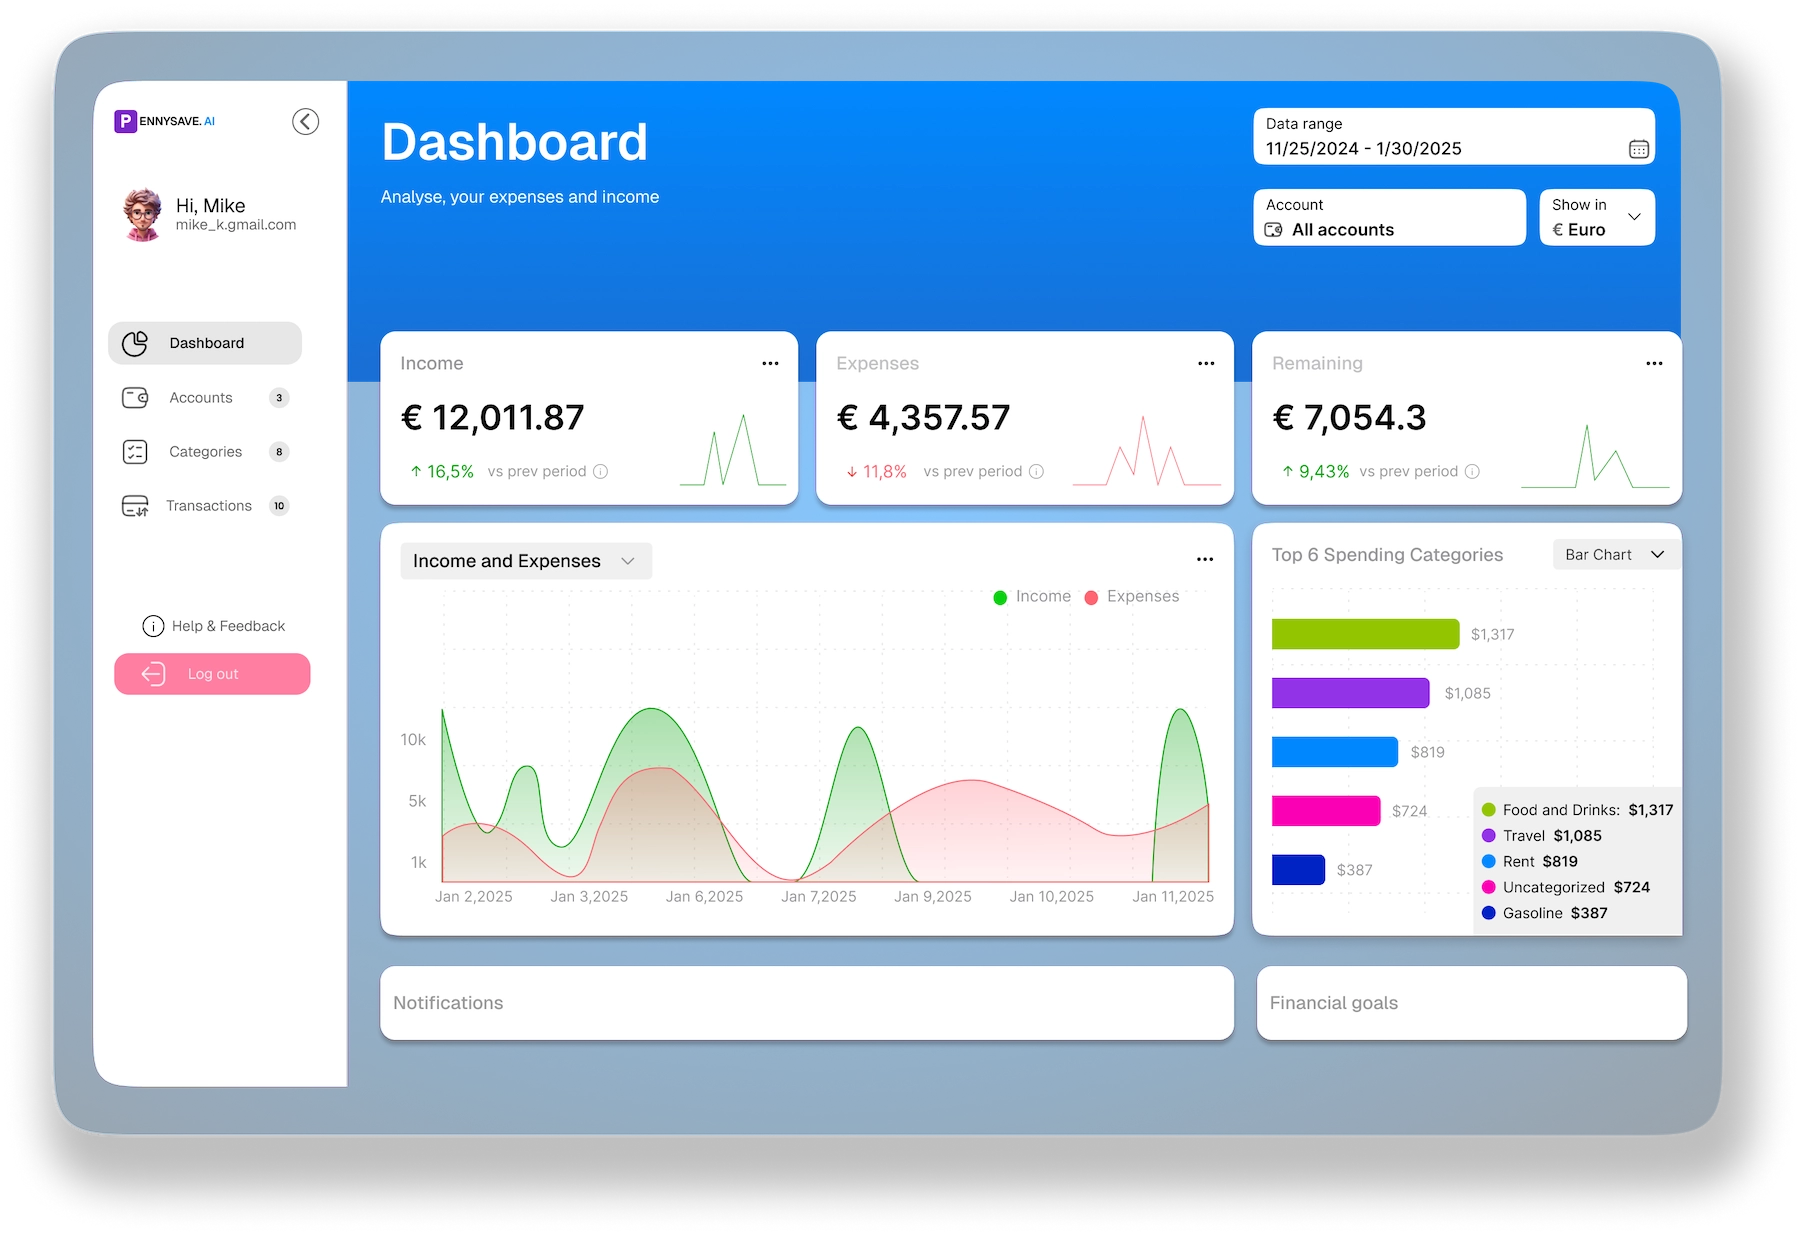
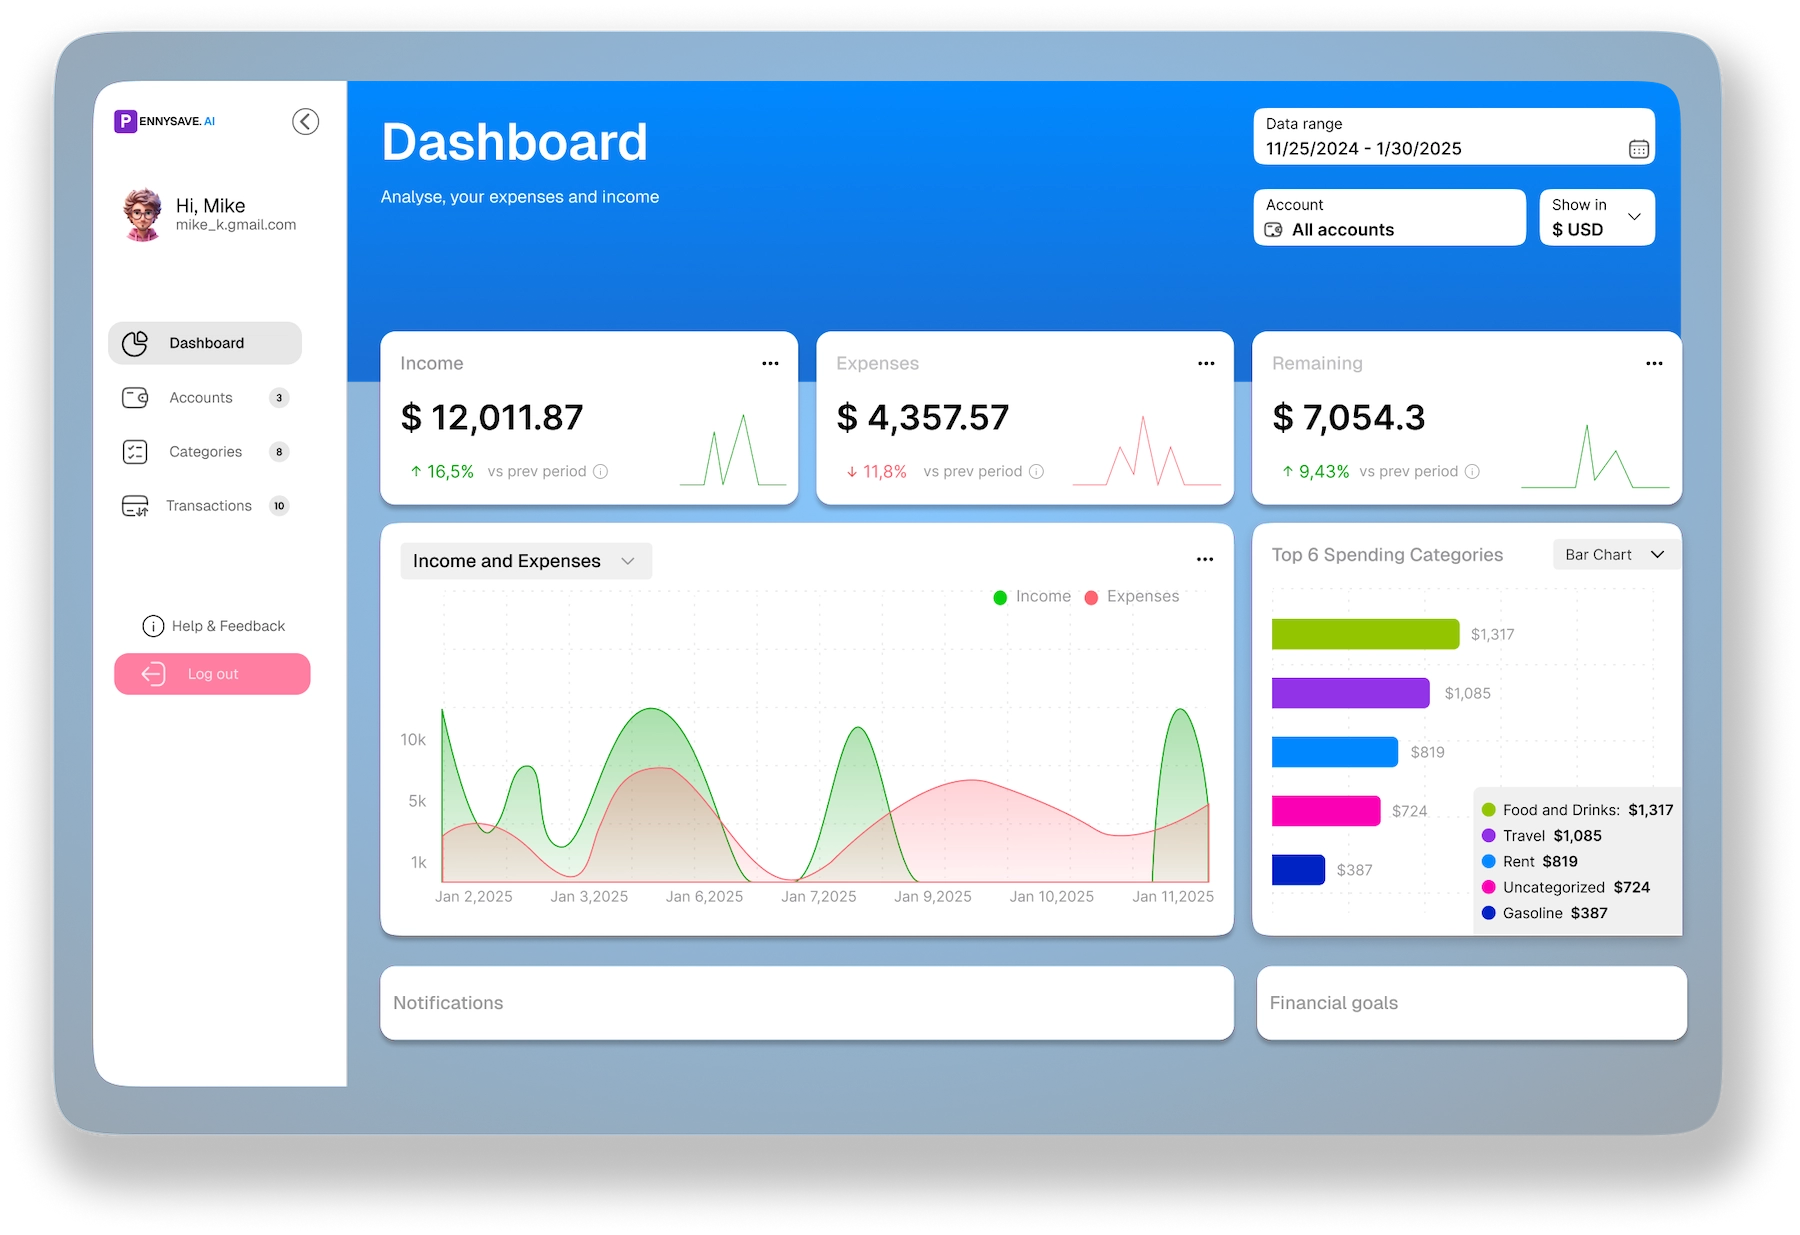
improvements

diff --git a/src/components/features.tsx b/src/components/features.tsx
@@ -201,33 +201,16 @@ export default function Features() {
             </div>
             <div className="p-3 flex flex-col gap-y-2 mb-24 md:mb-0">
               <div className="flex justify-between items-center gap-3">
-                <div className="flex items-center gap-x-3 overflow-hidden">
-                  <div
-                    className="bank-card"
-                    style={{
-                      background: "#0056b3",
-                    }}
-                  >
-                    C
-                  </div>
+                <div className="flex items-center gap-x-3 overflow-hidden w-full">
+                  <div className="bank-card bg-secondary-400">C</div>
                   <div className="flex flex-col overflow-hidden text-ellipsis">
                     <div className="truncate block">Chase</div>
-                    <div className="text-sm text-primary">chase.com</div>
+                    <div className="flex gap-x-2 text-xs text-default-400">
+                      <div className="trucate block">*6789</div>
+                    </div>
                   </div>
                 </div>
                 <div className="flex">
-                  <Button
-                    isIconOnly
-                    fullWidth
-                    isDisabled
-                    className="md:flex w-full"
-                    size="sm"
-                    aria-label="edit bank"
-                    color="primary"
-                    variant="light"
-                  >
-                    <Icon icon="solar:pen-2-bold" width={22} />
-                  </Button>
                   <Button
                     isIconOnly
                     fullWidth
@@ -243,33 +226,16 @@ export default function Features() {
                 </div>
               </div>
               <div className="flex justify-between items-center gap-3">
-                <div className="flex items-center gap-x-3 overflow-hidden">
-                  <div
-                    className="bank-card"
-                    style={{
-                      background: "#0075a3",
-                    }}
-                  >
-                    C
-                  </div>
+                <div className="flex items-center gap-x-3 overflow-hidden w-full">
+                  <div className="bank-card bg-secondary-400">C</div>
                   <div className="flex flex-col overflow-hidden text-ellipsis">
                     <div className="truncate block">Charles Schwab</div>
-                    <div className="text-sm text-primary">schwab.com</div>
+                    <div className="flex gap-x-2 text-xs text-default-400">
+                      <div className="trucate block">*4321</div>
+                    </div>
                   </div>
                 </div>
                 <div className="flex">
-                  <Button
-                    isIconOnly
-                    fullWidth
-                    isDisabled
-                    className="md:flex w-full"
-                    size="sm"
-                    aria-label="edit bank"
-                    color="primary"
-                    variant="light"
-                  >
-                    <Icon icon="solar:pen-2-bold" width={22} />
-                  </Button>
                   <Button
                     isIconOnly
                     fullWidth
@@ -285,33 +251,16 @@ export default function Features() {
                 </div>
               </div>
               <div className="flex justify-between items-center gap-3">
-                <div className="flex items-center gap-x-3 overflow-hidden">
-                  <div
-                    className="bank-card"
-                    style={{
-                      background: "#204081",
-                    }}
-                  >
-                    C
-                  </div>
+                <div className="flex items-center gap-x-3 overflow-hidden w-full">
+                  <div className="bank-card bg-secondary-400">C</div>
                   <div className="flex flex-col overflow-hidden text-ellipsis">
                     <div className="truncate block">Citibank Online</div>
-                    <div className="text-sm text-primary">citi.com</div>
+                    <div className="flex gap-x-2 text-xs text-default-400">
+                      <div className="trucate block">*6142</div>
+                    </div>
                   </div>
                 </div>
                 <div className="flex">
-                  <Button
-                    isIconOnly
-                    fullWidth
-                    isDisabled
-                    className="md:flex w-full"
-                    size="sm"
-                    aria-label="edit bank"
-                    color="primary"
-                    variant="light"
-                  >
-                    <Icon icon="solar:pen-2-bold" width={22} />
-                  </Button>
                   <Button
                     isIconOnly
                     fullWidth

diff --git a/src/app/(protected)/settings/subscription-section.tsx b/src/app/(protected)/settings/subscription-section.tsx
@@ -59,15 +59,15 @@ export default function SubscriptionSection() {
                     {user.subscription?.cancelAt
                       ? "will be canceled on"
                       : "renews on"}{" "}
-                    {user.subscription?.cancelAt ||
-                      (user.subscription?.expires &&
-                        format(
-                          new Date(
-                            user.subscription?.cancelAt ||
-                              user.subscription?.expires
-                          ),
-                          "PP"
-                        ))}
+                    {(user.subscription?.cancelAt ||
+                      user.subscription?.expires) &&
+                      format(
+                        new Date(
+                          user.subscription?.cancelAt ||
+                            user.subscription?.expires
+                        ),
+                        "PP"
+                      )}
                   </div>
                 </div>
               </div>

diff --git a/src/app/(protected)/settings/banks-section.tsx b/src/app/(protected)/settings/banks-section.tsx
@@ -118,7 +118,7 @@ export default function BanksSection({
                   </Chip>
                 </div>
                 <StripeLink
-                  className="w-auto hidden md:flex"
+                  className="z-0 group relative inline-flex items-center justify-center box-border appearance-none select-none whitespace-nowrap font-normal subpixel-antialiased overflow-hidden tap-highlight-transparent data-[pressed=true]:scale-[0.97] outline-none data-[focus-visible=true]:z-10 data-[focus-visible=true]:outline-2 data-[focus-visible=true]:outline-focus data-[focus-visible=true]:outline-offset-2 px-4 min-w-20 h-10 text-small gap-2 rounded-medium [&>svg]:max-w-[theme(spacing.8)] transition-transform-colors-opacity motion-reduce:transition-none bg-primary text-primary-foreground data-[hover=true]:opacity-hover w-full md:w-auto"
                   title="Connect"
                   startContent={
                     <Icon icon="solar:add-circle-bold" width={20} />

diff --git a/src/app/(protected)/settings/general.tsx b/src/app/(protected)/settings/general.tsx
@@ -1,16 +1,15 @@
 "use client";
 
-import { Session } from "next-auth";
 import { CardHeader } from "@heroui/card";
 import BanksSection from "./banks-section";
 import SubscriptionSection from "./subscription-section";
 import { useGetAccounts } from "@/features/accounts/hooks";
 
 interface GeneralProps {
-  user: Session["user"];
+  hasActiveSubscription: boolean;
 }
 
-export default function General({ user }: GeneralProps) {
+export default function General({ hasActiveSubscription }: GeneralProps) {
   const { data: accounts, isFetching: accountsLoading } = useGetAccounts();
   return (
     <>
@@ -23,7 +22,7 @@ export default function General({ user }: GeneralProps) {
         <BanksSection
           isLoading={accountsLoading}
           accounts={accounts}
-          hasActiveSubscription={user.hasActiveStripeSubscription}
+          hasActiveSubscription={hasActiveSubscription}
         />
       </div>
     </>

diff --git a/src/app/(unprotected)/layout.tsx b/src/app/(unprotected)/layout.tsx
@@ -101,11 +101,6 @@ export default function UnprotectedRoadsLayout({
                     Get started
                   </Link>
                 </NavbarItem>
-                {/* <NavbarItem>
-                  <Link className="text-default-600" href="#" size="sm">
-                    Showcase
-                  </Link>
-                </NavbarItem> */}
                 <NavbarItem>
                   <Link className="text-default-600" href="#contacts" size="sm">
                     Contacts
@@ -114,8 +109,6 @@ export default function UnprotectedRoadsLayout({
               </>
             )}
             <Button
-              as={Button}
-              href=""
               color="primary"
               radius="full"
               variant="solid"

diff --git a/src/app/auth/layout.tsx b/src/app/auth/layout.tsx
@@ -89,8 +89,6 @@ export default function UnprotectedRoadsLayout({
             </NavbarItem>
             {path === "/auth/sign-in" && (
               <Button
-                as={Button}
-                href=""
                 color="primary"
                 radius="full"
                 variant="solid"
@@ -106,8 +104,6 @@ export default function UnprotectedRoadsLayout({
               path === "/auth/verify-email" ||
               path === "/auth/new-password") && (
               <Button
-                as={Button}
-                href=""
                 color="primary"
                 radius="full"
                 variant="solid"

diff --git a/src/components/sign-up-form.tsx b/src/components/sign-up-form.tsx
@@ -1,6 +1,5 @@
 "use client";
-import { useState } from "react";
-import { useFormState } from "react-dom";
+import { useState, useActionState } from "react";
 import { Input } from "@heroui/input";
 import TermsAndPrivacyPolicy from "@/components/terms-and-privacy-policy";
 
@@ -8,7 +7,7 @@ import * as actions from "@/actions";
 import { SubmitButton, PasswordInput, OauthButtons } from "@/components/common";
 
 export default function SignUpForm() {
-  const [formState, action] = useFormState(actions.signUp, {
+  const [formState, action] = useActionState(actions.signUp, {
     errors: {},
     success: {},
   });

diff --git a/src/components/sign-in-form.tsx b/src/components/sign-in-form.tsx
@@ -1,6 +1,6 @@
 "use client";
 
-import { useFormState } from "react-dom";
+import { useActionState } from "react";
 import { Input } from "@heroui/input";
 import { Link } from "@heroui/link";
 import { useSearchParams } from "next/navigation";
@@ -9,7 +9,7 @@ import * as actions from "@/actions";
 import { SubmitButton, PasswordInput } from "@/components/common";
 
 export default function SignInForm() {
-  const [formState, action] = useFormState(actions.emailSignIn, {
+  const [formState, action] = useActionState(actions.emailSignIn, {
     errors: {},
     success: {},
   });

diff --git a/src/components/new-password.tsx b/src/components/new-password.tsx
@@ -1,12 +1,12 @@
 "use client";
 
-import { useFormState } from "react-dom";
+import { useActionState } from "react";
 import { useSearchParams } from "next/navigation";
 import * as actions from "@/actions";
 import { SubmitButton, PasswordInput } from "@/components/common";
 
 export default function NewPassword() {
-  const [formState, action] = useFormState(actions.setNewPassword, {
+  const [formState, action] = useActionState(actions.setNewPassword, {
     errors: {},
     success: {},
   });

diff --git a/src/components/reset-password-form.tsx b/src/components/reset-password-form.tsx
@@ -1,13 +1,12 @@
 "use client";
 
-import { useFormState } from "react-dom";
+import { useActionState } from "react";
 import { Input } from "@heroui/input";
-
 import * as actions from "@/actions";
 import { SubmitButton } from "@/components/common";
 
 export default function ResetPasswordForm() {
-  const [formState, action] = useFormState(actions.resetPassword, {
+  const [formState, action] = useActionState(actions.resetPassword, {
     errors: {},
     success: {},
   });

diff --git a/src/app/(protected)/settings/page.tsx b/src/app/(protected)/settings/page.tsx
@@ -19,7 +19,11 @@ export default async function Settings() {
       <div className="flex w-full max-w-screen-2xl -mt-20 px-4 mx-auto">
         <Card className="p-8 w-full">
           <Tabs>
-            <General user={session?.user} />
+            <General
+              hasActiveSubscription={
+                !!session?.user?.hasActiveStripeSubscription
+              }
+            />
             <Notifications user={session?.user} />
           </Tabs>
         </Card>

diff --git a/src/features/stripe/hooks/index.ts b/src/features/stripe/hooks/index.ts
@@ -58,7 +58,6 @@ export const useCreateCheckoutSession = () => {
         },
         body: JSON.stringify({ priceId }),
       });
-      console.log("response->", response);
       if (!response.ok) {
         addToast({
           timeout: 10000,
